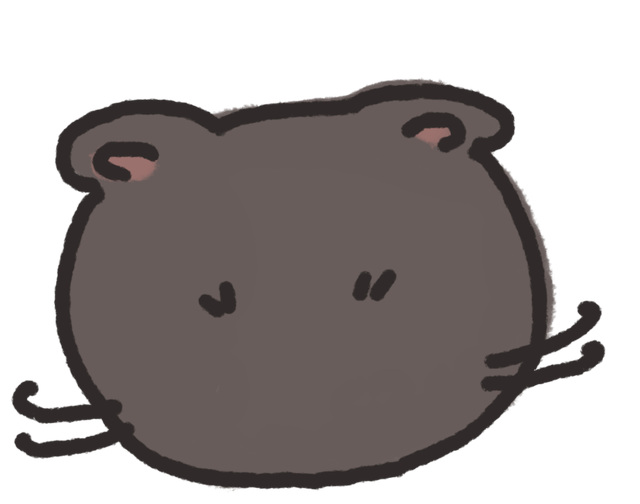
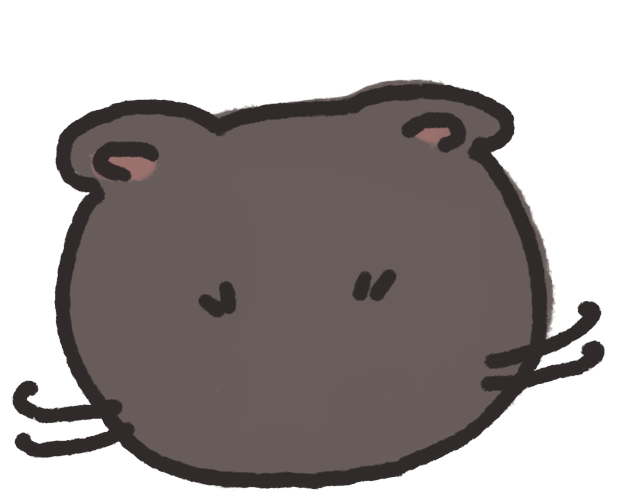
The halo round Hex becomes opacity, so the sunburst shows through it
The dark band hugging her was mostly not a shadow and mostly not mine: it is
painted into the PNG as a wide feather of COAT-COLOURED pixels (#645957) at about
47% alpha. Coat colour is why it read as a grey smudge rather than as shadow once
the page behind it went pink, and 47% over that width is opaque enough to mute
the sunburst exactly where the spokes converge on her.

Confirmed by attribution before changing anything: with the CSS drop-shadow
forced off, essentially the whole band was still there.

So the feather is re-curved rather than recoloured — alpha gets a gamma of 2.0
below the opaque core, which roughly halves the wide faint part of the band while
barely touching the pixels next to the drawn line. That keeps the soft airbrushed
edge the art is drawn with; a flat alpha cut would have made her look cut out.
Applied to every head pose and both ear layers so they still compose.

The CSS drop-shadow drops .30 -> .18 and tightens, because the two stack and it
only ever needed to add contact darkness under her, not build the shadow itself.

Claude-Session: https://claude.ai/code/session_01V7hngEDbAxCugsA5W1HCbL

diff --git a/apps/hex-clicker/index.html b/apps/hex-clicker/index.html
@@ -389,11 +389,15 @@
     width: min(55%, 300px); height: auto; max-height: 84%;
     pointer-events: none;
     /* day: sitting in the sunburst, so a warm white bloom like CC's cookie */
-    /* The drawing already carries its own soft shadow, so this is a much lighter
-       touch than the vector cat needed — and warm rather than cool, because the
-       old cold bloom reads as grey haze once the page behind it is pink. The
-       sunburst is doing the "lit from behind" job the second drop-shadow used to. */
-    filter: drop-shadow(0 4px 9px rgba(120,70,70,.30));
+    /* The drawing carries its own soft shadow — a wide band of COAT-COLOURED
+       pixels at partial alpha, painted into the PNG — so this only has to add a
+       little contact darkness under her, not build the whole shadow. Kept warm
+       rather than cool: the old cold bloom read as grey haze once the page behind
+       it went pink.
+       Deliberately light. Both this and the baked band are things the sunburst
+       has to show through, and they stack: at the previous .30 the two together
+       muted the spokes into a grey smear right where they converge on her. */
+    filter: drop-shadow(0 3px 7px rgba(120,70,70,.18));
     transition: transform .1s ease-out;
   }
   /* Only the traced hit path takes taps. The head is five <image> layers now,
